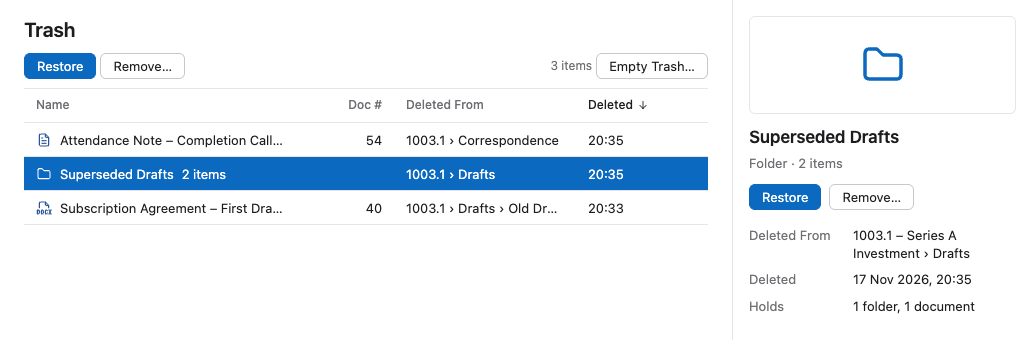
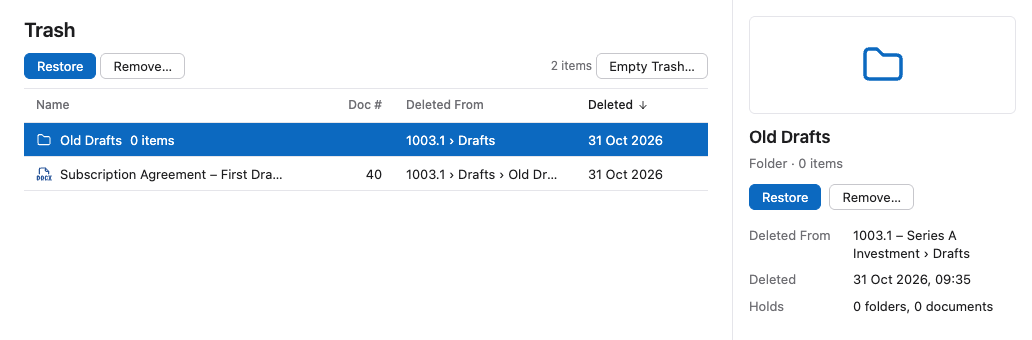
Record and date the demo firm's deleted folder in the Trash
The demo fixture runs from HealdanStartup's @PostConstruct, which Spring can call before it makes HealdanHooksImpl, whose @PostConstruct registers Healdan's hooks. Until then HealdanHooks is CE's no-op, so the demo's folder delete reached no recorder and left no Trash item, while its document deletes (listener-based) did. The fixture now asks Spring for the bean first, so the hooks are registered, and Backdater dates each delete's hd_trash row to the step's time. DemoFixtureSeedTest checks both items' kind, deleter and time. The Trash screenshot is retaken from the demo's own Old Drafts.

diff --git a/healdan-core/src/test/java/com/logicaldoc/healdan/seed/DemoFixtureSeedTest.java b/healdan-core/src/test/java/com/logicaldoc/healdan/seed/DemoFixtureSeedTest.java
@@ -303,6 +303,17 @@ public class DemoFixtureSeedTest extends AbstractHealdanTestCase {
 		assertEquals(1, deleted.size());
 		assertEquals(clock.at(-5, null).getTime(), deleted.get(0).getTime());
 		assertEquals(1, count("select count(*) from ld_folder where ld_deleted <> 0 and ld_name = 'Superseded'"));
+		// Each delete is in the Trash as the item its person's delete would have made, dated to the step
+		assertEquals(2, count("select count(*) from hd_trash"));
+		List<Map<String, Object>> items = jdbc().queryForList(
+				"select hd_kind, hd_name, hd_deletedby, hd_deletedat from hd_trash order by hd_kind");
+		assertEquals("document", items.get(0).get("hd_kind"));
+		assertEquals(pnair.getId(), ((Number) items.get(0).get("hd_deletedby")).longValue());
+		assertEquals(clock.at(-5, null).getTime(), ((Timestamp) items.get(0).get("hd_deletedat")).getTime());
+		assertEquals("folder", items.get(1).get("hd_kind"));
+		assertEquals("Superseded", items.get(1).get("hd_name"));
+		assertEquals(pnair.getId(), ((Number) items.get(1).get("hd_deletedby")).longValue());
+		assertEquals(clock.at(-5, "09:30").getTime(), ((Timestamp) items.get(1).get("hd_deletedat")).getTime());
 		assertEquals(1, count("select count(*) from ld_link"));
 		assertEquals(1, count("select count(*) from ld_ticket"));
 		// The link is live: it expires about 30 days after the real today, not after the timeline's day

diff --git a/healdan-core/src/main/java/com/logicaldoc/healdan/seed/DemoFixtureSeed.java b/healdan-core/src/main/java/com/logicaldoc/healdan/seed/DemoFixtureSeed.java
@@ -16,6 +16,7 @@ import org.springframework.beans.factory.annotation.Autowired;
 import org.springframework.jdbc.core.JdbcTemplate;
 import org.springframework.stereotype.Component;
 
+import com.logicaldoc.healdan.rules.HealdanHooksImpl;
 import com.logicaldoc.healdan.seed.demo.Backdater;
 import com.logicaldoc.healdan.seed.demo.DemoClock;
 import com.logicaldoc.healdan.seed.demo.DemoFirm;
@@ -89,6 +90,9 @@ public class DemoFixtureSeed implements SeedStep {
 		DemoManifest manifest = DemoManifest.read(manifestFile);
 		DemoClock clock = new DemoClock(today.get(), ZoneId.systemDefault());
 
+		// Healdan's hooks register when their bean is made, which Spring may do after the seeds run. Without them a
+		// folder's delete here records no Trash item, as a person's does
+		Context.get(HealdanHooksImpl.class);
 		Backdater backdater = new Backdater(jdbc);
 		DemoFirm firm = new DemoFirm(manifest, password).build();
 		// The firm is set up the day before its first action

diff --git a/healdan-core/src/main/java/com/logicaldoc/healdan/seed/demo/DemoTimeline.java b/healdan-core/src/main/java/com/logicaldoc/healdan/seed/demo/DemoTimeline.java
@@ -375,6 +375,7 @@ public final class DemoTimeline {
 			DocumentDAO.get().delete(doc.getId(), history(actor, when, DocumentEvent.DELETED));
 			// The Recycle Bin lists a deleted document by its last change
 			backdater.touch(doc.getId(), when, false);
+			backdater.touchTrash("document", doc.getId(), when);
 		}
 		case "deleteFolder" -> deleteFolder(step, actor, when);
 		case "bookmark" -> bookmark(step, actor);
@@ -424,6 +425,7 @@ public final class DemoTimeline {
 					"%d folders under %s weren't deleted".formatted(left.size(), step.folder()));
 		// As a deleted document's: the Recycle Bin lists the folder by its last change
 		backdater.touchFolder(folder.getId(), when);
+		backdater.touchTrash("folder", folder.getId(), when);
 	}
 
 	/** @param path a folder in the matter's workspace; null or blank for the workspace itself */

diff --git a/healdan-core/src/main/java/com/logicaldoc/healdan/seed/demo/Backdater.java b/healdan-core/src/main/java/com/logicaldoc/healdan/seed/demo/Backdater.java
@@ -112,6 +112,19 @@ public final class Backdater {
 	}
 
 	/**
+	 * Dates the Trash item a delete recorded, whose time is the real one. A
+	 * delete records no member with a time of its own while the rows are
+	 * deleted, so the item's is the only one.
+	 *
+	 * @param kind {@code document} or {@code folder}
+	 * @param objectId the id of the document or folder the delete was of
+	 */
+	public void touchTrash(String kind, long objectId, Date when) {
+		jdbc.update("update hd_trash set hd_deletedat = ? where hd_kind = ? and hd_objectid = ?",
+				new Timestamp(when.getTime()), kind, objectId);
+	}
+
+	/**
 	 * Clears every region of the second-level cache (entities, collections and
 	 * queries), since the writes above can touch any of the tables
 	 */

diff --git a/site/content/user/documents/the-trash/index.md b/site/content/user/documents/the-trash/index.md
@@ -38,7 +38,7 @@ Choose **Trash**, at the foot of the left pane, below **My Favorites**. In a nar
 left pane too, which the **☰** (Navigation) button opens. It lists what **you** deleted, newest first. Others'
 deletions are in their own Trash.
 
-![The Trash listing two deleted documents and a deleted folder, Superseded Drafts, with "2 items" beside its name. The folder is selected and its details are at the right: Folder, 2 items, Deleted From 1003.1 › Drafts, Deleted, Holds 1 folder, 1 document, with Restore and Remove… buttons](trash.png)
+![The Trash listing a deleted folder, Old Drafts, and a deleted document, Subscription Agreement – First Draft.docx, each with where it was deleted from and the day. The folder is selected and its details are at the right: Folder, Deleted From 1003.1 › Drafts, Deleted, Holds, with Restore and Remove… buttons](trash.png)
 
 - **A deleted folder is one row,** with how many items it holds, such as "14 items", beside its name. What's inside it
   isn't a row of its own.
